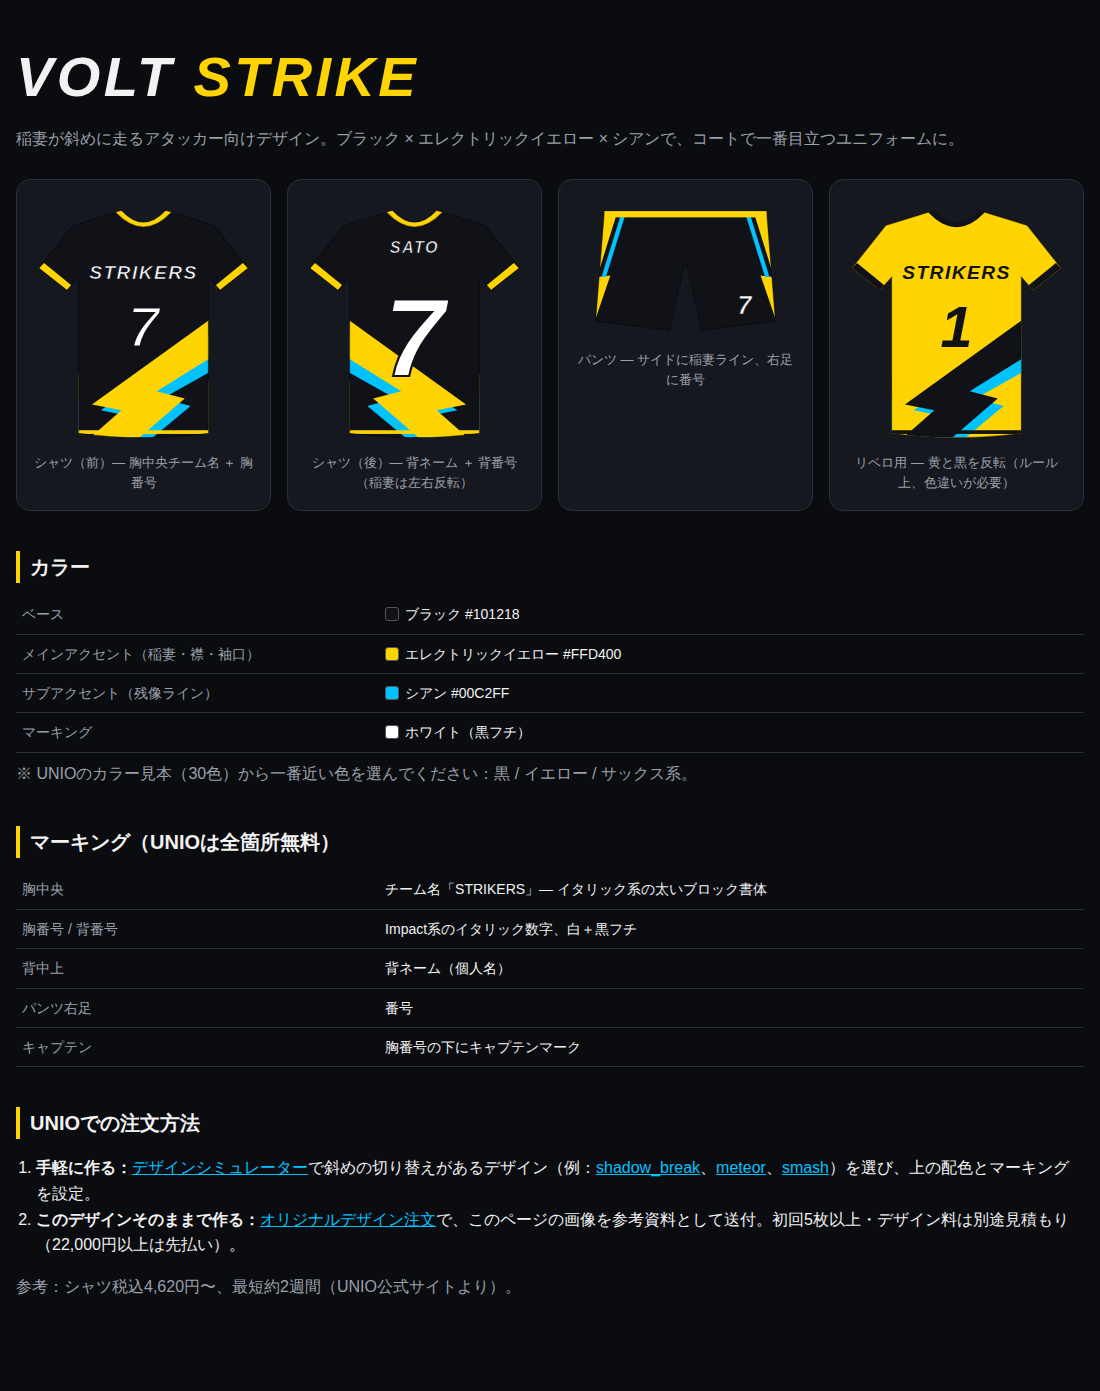
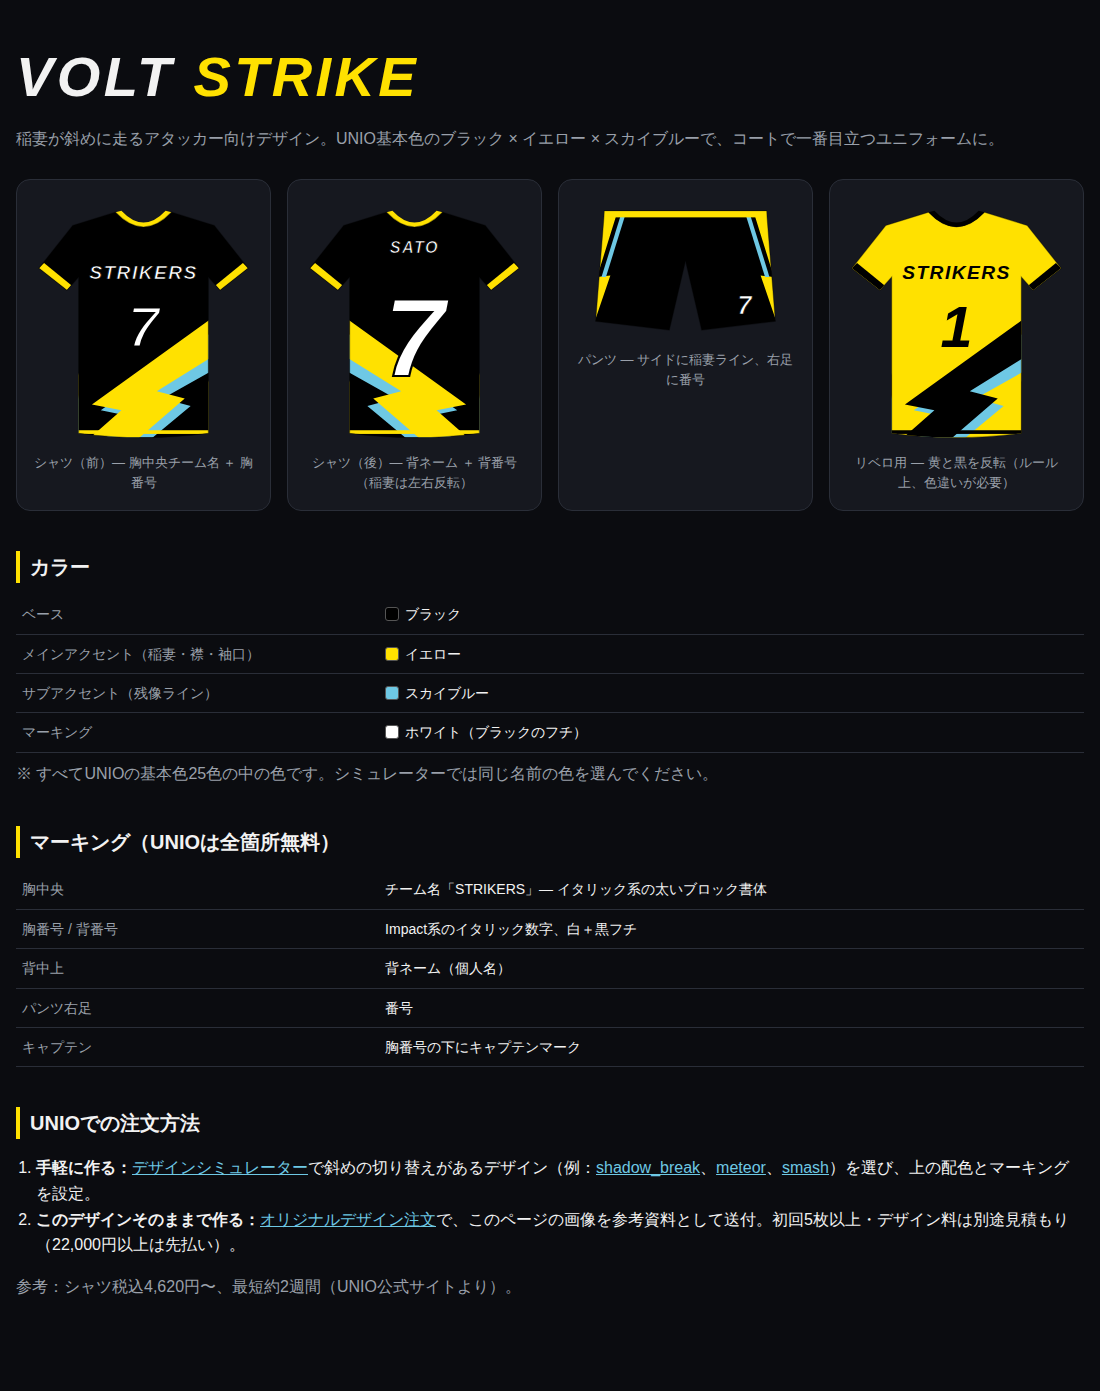
Use UNIO basic palette colors for VOLT STRIKE design
Claude-Session: https://claude.ai/code/session_01SjAAyfT3hatipVkbeoHn9e

diff --git a/volleyball-uniform/index.html b/volleyball-uniform/index.html
@@ -10,21 +10,21 @@
 body{margin:0;background:var(--bg);color:var(--fg);font-family:"Helvetica Neue",Arial,"Hiragino Sans","Noto Sans JP",sans-serif;line-height:1.6}
 main{max-width:1100px;margin:0 auto;padding:32px 16px 64px}
 h1{font-size:clamp(32px,6vw,56px);letter-spacing:.06em;margin:0;font-style:italic;font-weight:900}
-h1 span{color:#FFD400}
+h1 span{color:#FFE100}
 .lead{color:var(--muted);margin:4px 0 28px}
 .grid{display:grid;grid-template-columns:repeat(auto-fit,minmax(240px,1fr));gap:16px}
 figure{margin:0;background:var(--card);border:1px solid var(--line);border-radius:14px;padding:16px;text-align:center}
 figcaption{color:var(--muted);font-size:13px;margin-top:6px}
 svg{width:100%;height:auto;display:block}
-h2{font-size:20px;margin:40px 0 12px;border-left:4px solid #FFD400;padding-left:10px}
+h2{font-size:20px;margin:40px 0 12px;border-left:4px solid #FFE100;padding-left:10px}
 table{width:100%;border-collapse:collapse;font-size:14px}
 td,th{border-bottom:1px solid var(--line);padding:8px 6px;text-align:left;vertical-align:top}
 th{color:var(--muted);font-weight:normal;width:34%}
 .sw{display:inline-block;width:14px;height:14px;border-radius:3px;vertical-align:-2px;margin-right:6px;border:1px solid #555}
 ol{padding-left:20px}
-a{color:#00C2FF}
-.player{--base:#101218;--a1:#FFD400;--a2:#00C2FF;--mark:#ffffff}
-.libero{--base:#FFD400;--a1:#101218;--a2:#00C2FF;--mark:#101218}
+a{color:#6EC8E4}
+.player{--base:#000000;--a1:#FFE100;--a2:#6EC8E4;--mark:#ffffff}
+.libero{--base:#FFE100;--a1:#000000;--a2:#6EC8E4;--mark:#000000}
 .base{fill:var(--base)}.a1{fill:var(--a1)}.a2{fill:var(--a2)}.mk{fill:var(--mark)}
 .st{fill:none;stroke:#000;stroke-opacity:.35;stroke-width:1.5}
 .num{font-family:Impact,"Arial Black",sans-serif;font-style:italic;font-weight:900;text-anchor:middle}
@@ -34,7 +34,7 @@ a{color:#00C2FF}
 <body>
 <main>
 <h1>VOLT <span>STRIKE</span></h1>
-<p class="lead">稲妻が斜めに走るアタッカー向けデザイン。ブラック × エレクトリックイエロー × シアンで、コートで一番目立つユニフォームに。</p>
+<p class="lead">稲妻が斜めに走るアタッカー向けデザイン。UNIO基本色のブラック × イエロー × スカイブルーで、コートで一番目立つユニフォームに。</p>
 
 <svg width="0" height="0" style="position:absolute" aria-hidden="true">
 <defs>
@@ -84,23 +84,23 @@ a{color:#00C2FF}
   <figure class="player">
     <svg viewBox="0 0 300 340" role="img" aria-label="シャツ前面">
       <use href="#shirtArt"/>
-      <text class="ttl mk" x="150" y="112" font-size="26" stroke="#101218" stroke-width="1">STRIKERS</text>
-      <text class="num mk" x="150" y="205" font-size="78" stroke="#101218" stroke-width="4">7</text>
+      <text class="ttl mk" x="150" y="112" font-size="26" stroke="#000000" stroke-width="1">STRIKERS</text>
+      <text class="num mk" x="150" y="205" font-size="78" stroke="#000000" stroke-width="4">7</text>
     </svg>
     <figcaption>シャツ（前）— 胸中央チーム名 ＋ 胸番号</figcaption>
   </figure>
   <figure class="player">
     <svg viewBox="0 0 300 340" role="img" aria-label="シャツ背面">
       <g transform="translate(300,0) scale(-1,1)"><use href="#shirtArt"/></g>
-      <text class="ttl mk" x="150" y="78" font-size="22" stroke="#101218" stroke-width="1">SATO</text>
-      <text class="num mk" x="150" y="245" font-size="150" stroke="#101218" stroke-width="3">7</text>
+      <text class="ttl mk" x="150" y="78" font-size="22" stroke="#000000" stroke-width="1">SATO</text>
+      <text class="num mk" x="150" y="245" font-size="150" stroke="#000000" stroke-width="3">7</text>
     </svg>
     <figcaption>シャツ（後）— 背ネーム ＋ 背番号（稲妻は左右反転）</figcaption>
   </figure>
   <figure class="player">
     <svg viewBox="0 0 300 200" role="img" aria-label="パンツ">
       <use href="#shortsArt"/>
-      <text class="num mk" x="230" y="160" font-size="34" stroke="#101218" stroke-width="1">7</text>
+      <text class="num mk" x="230" y="160" font-size="34" stroke="#000000" stroke-width="1">7</text>
     </svg>
     <figcaption>パンツ — サイドに稲妻ライン、右足に番号</figcaption>
   </figure>
@@ -116,12 +116,12 @@ a{color:#00C2FF}
 
 <h2>カラー</h2>
 <table>
-<tr><th>ベース</th><td><span class="sw" style="background:#101218"></span>ブラック #101218</td></tr>
-<tr><th>メインアクセント（稲妻・襟・袖口）</th><td><span class="sw" style="background:#FFD400"></span>エレクトリックイエロー #FFD400</td></tr>
-<tr><th>サブアクセント（残像ライン）</th><td><span class="sw" style="background:#00C2FF"></span>シアン #00C2FF</td></tr>
-<tr><th>マーキング</th><td><span class="sw" style="background:#fff"></span>ホワイト（黒フチ）</td></tr>
+<tr><th>ベース</th><td><span class="sw" style="background:#000000"></span>ブラック</td></tr>
+<tr><th>メインアクセント（稲妻・襟・袖口）</th><td><span class="sw" style="background:#FFE100"></span>イエロー</td></tr>
+<tr><th>サブアクセント（残像ライン）</th><td><span class="sw" style="background:#6EC8E4"></span>スカイブルー</td></tr>
+<tr><th>マーキング</th><td><span class="sw" style="background:#fff"></span>ホワイト（ブラックのフチ）</td></tr>
 </table>
-<p class="lead" style="margin-top:8px">※ UNIOのカラー見本（30色）から一番近い色を選んでください：黒 / イエロー / サックス系。</p>
+<p class="lead" style="margin-top:8px">※ すべてUNIOの基本色25色の中の色です。シミュレーターでは同じ名前の色を選んでください。</p>
 
 <h2>マーキング（UNIOは全箇所無料）</h2>
 <table>
